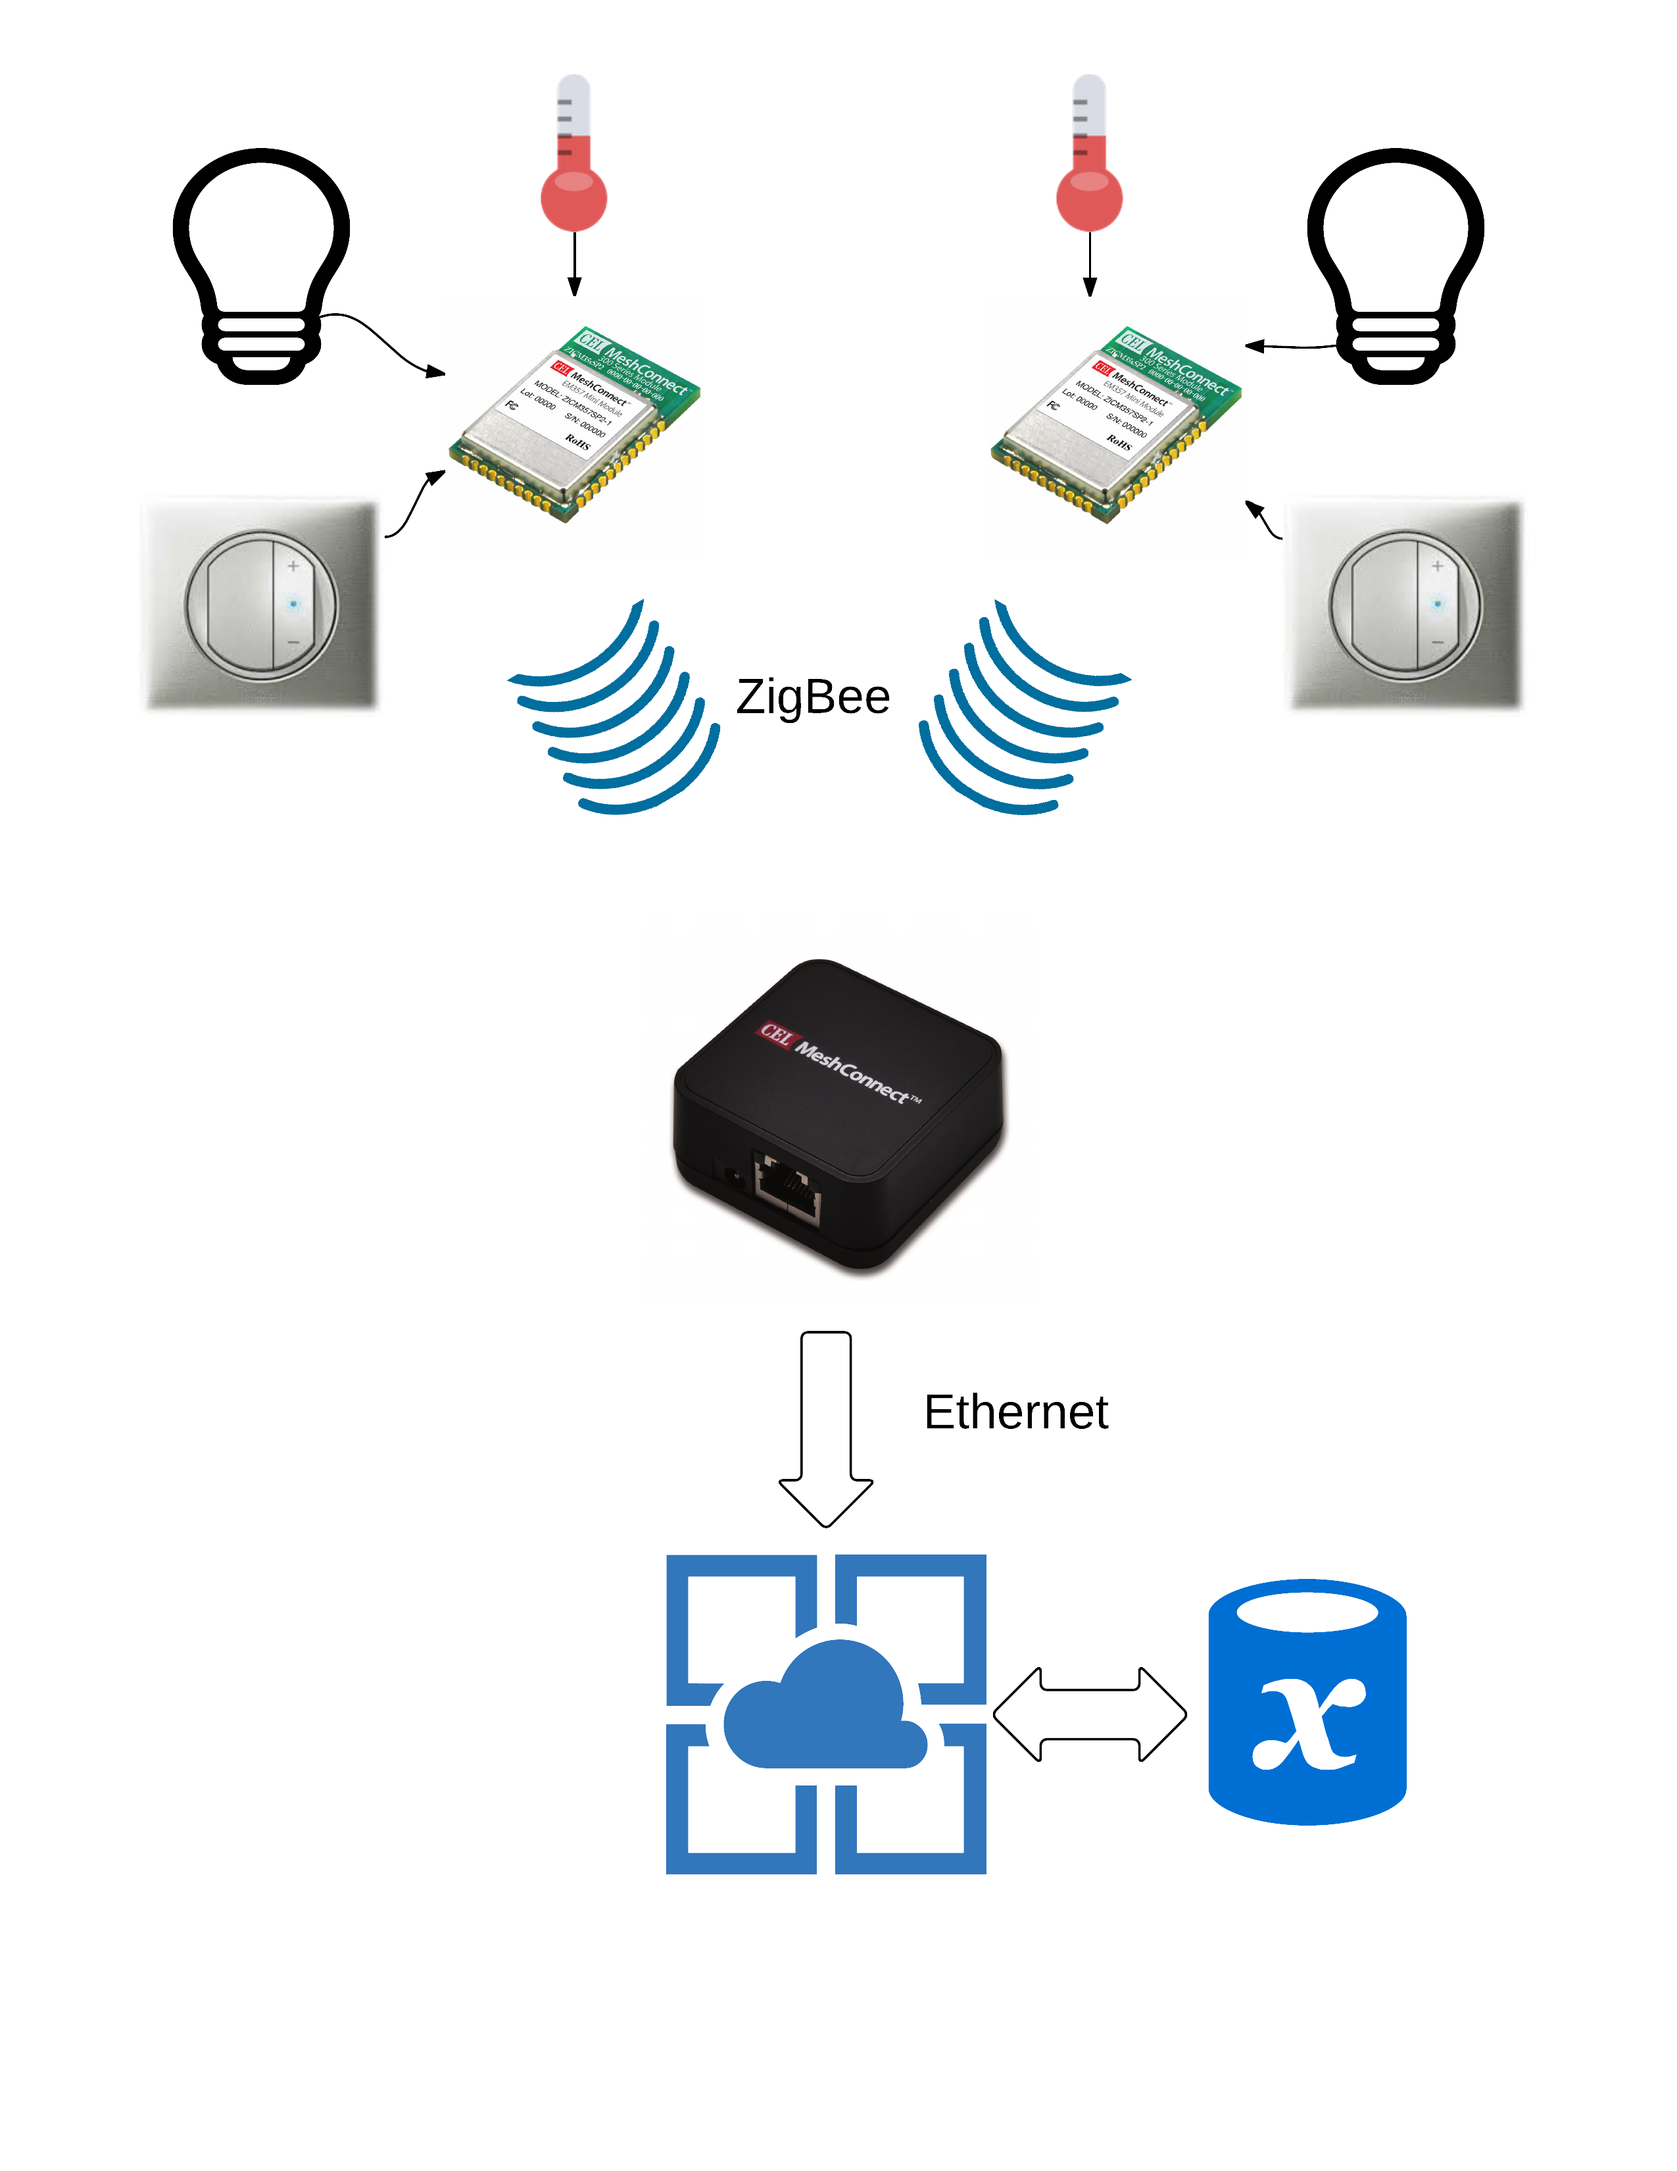
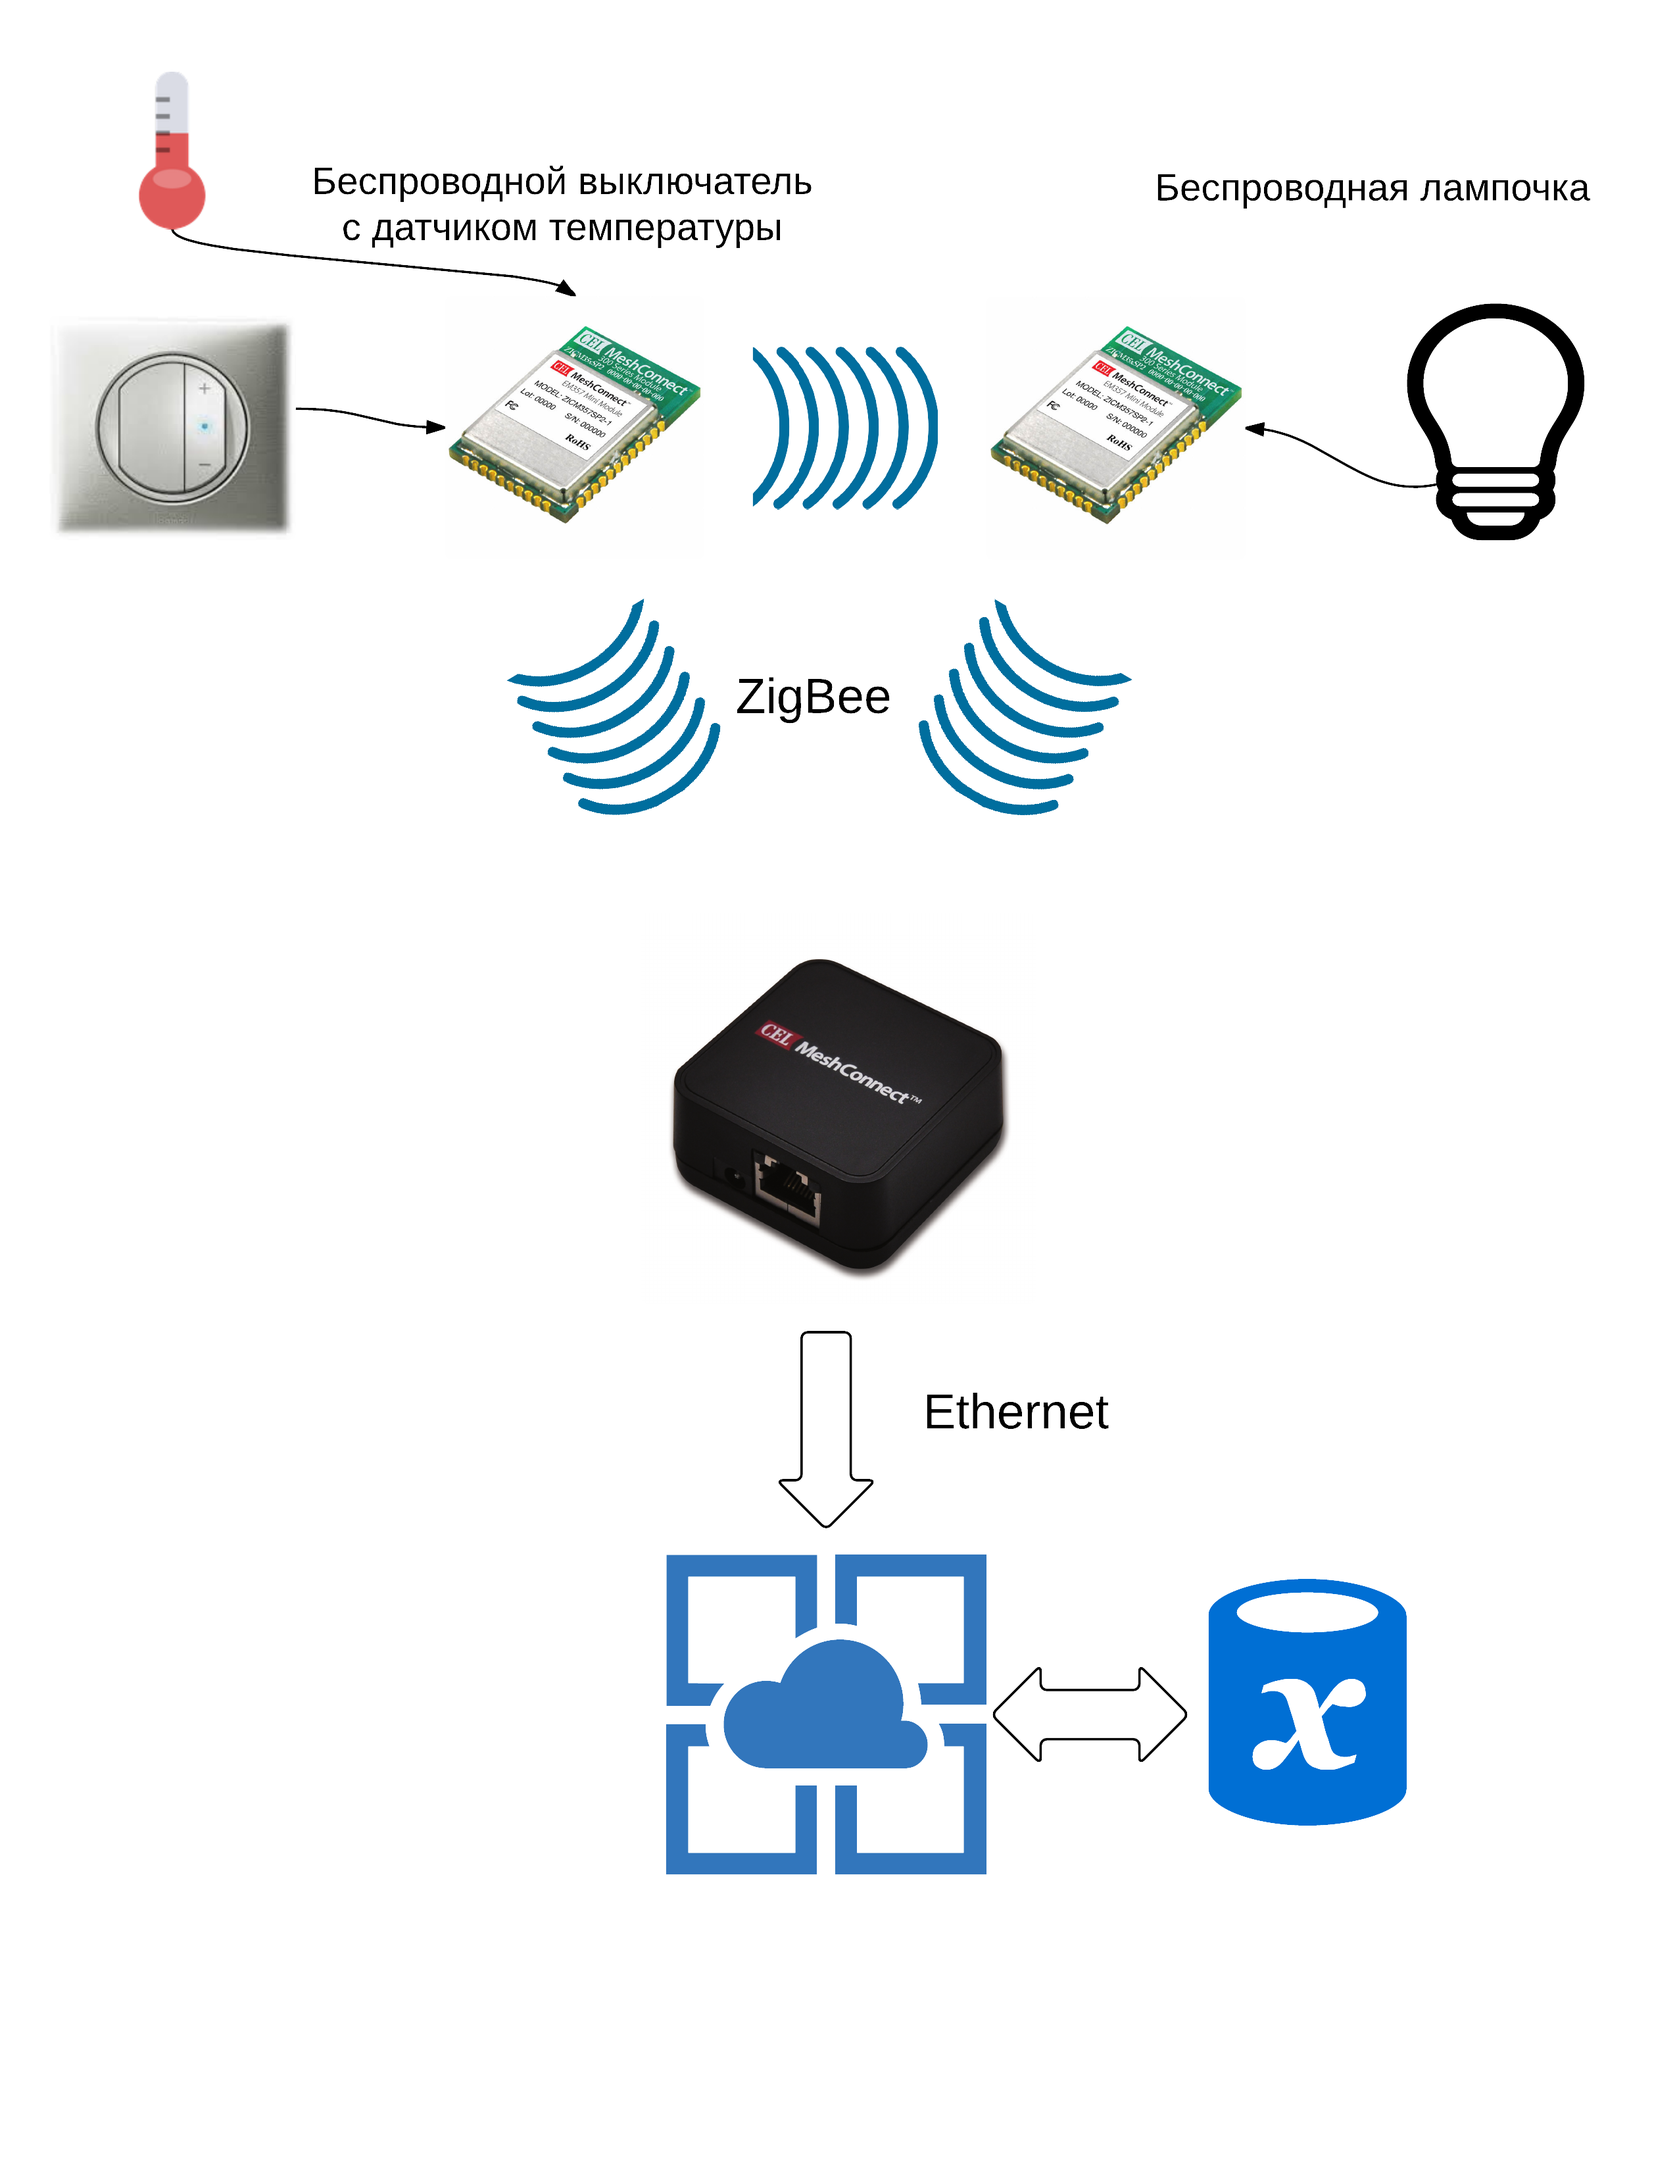
Update the image for the example part and some clean up

Changed region(s): [[0.031, 0.0312, 0.4647, 0.3433], [0.6196, 0.0312, 0.9604, 0.3433], [0.4337, 0.1561, 0.5576, 0.2497]]

diff --git a/MeshWorks/mw-introduction.tex b/MeshWorks/mw-introduction.tex
@@ -458,7 +458,7 @@ Si7013 с I2C-интерфейсом.
     Sensor1: button=1
     Light1: on
 \end{minted}
-\newpage %% Put summary at the new page
+
 \section*{Заключение}
 Платформа MeshWorks предлагает очень простой интерфейс для быстрой разработки систем
 сбора данных и управления, которые позволяют использовать практически все основные функциональные
@@ -473,7 +473,7 @@ Si7013 с I2C-интерфейсом.
 Кроме этого компания CEL предоставляет устройства с Ethernet- и USB-интерфейсами, 
 позволяющими расширить функциональность ZigBee-сетей, на базе платформы MeshWorks.
 Это значительно упрощает интеграцию с серверными, настольными и мобильными приложениями.
-
+\newpage %% Put the literature list on the new page
 \section*{Список используемой литературы}
 
 \begin{enumerate}
